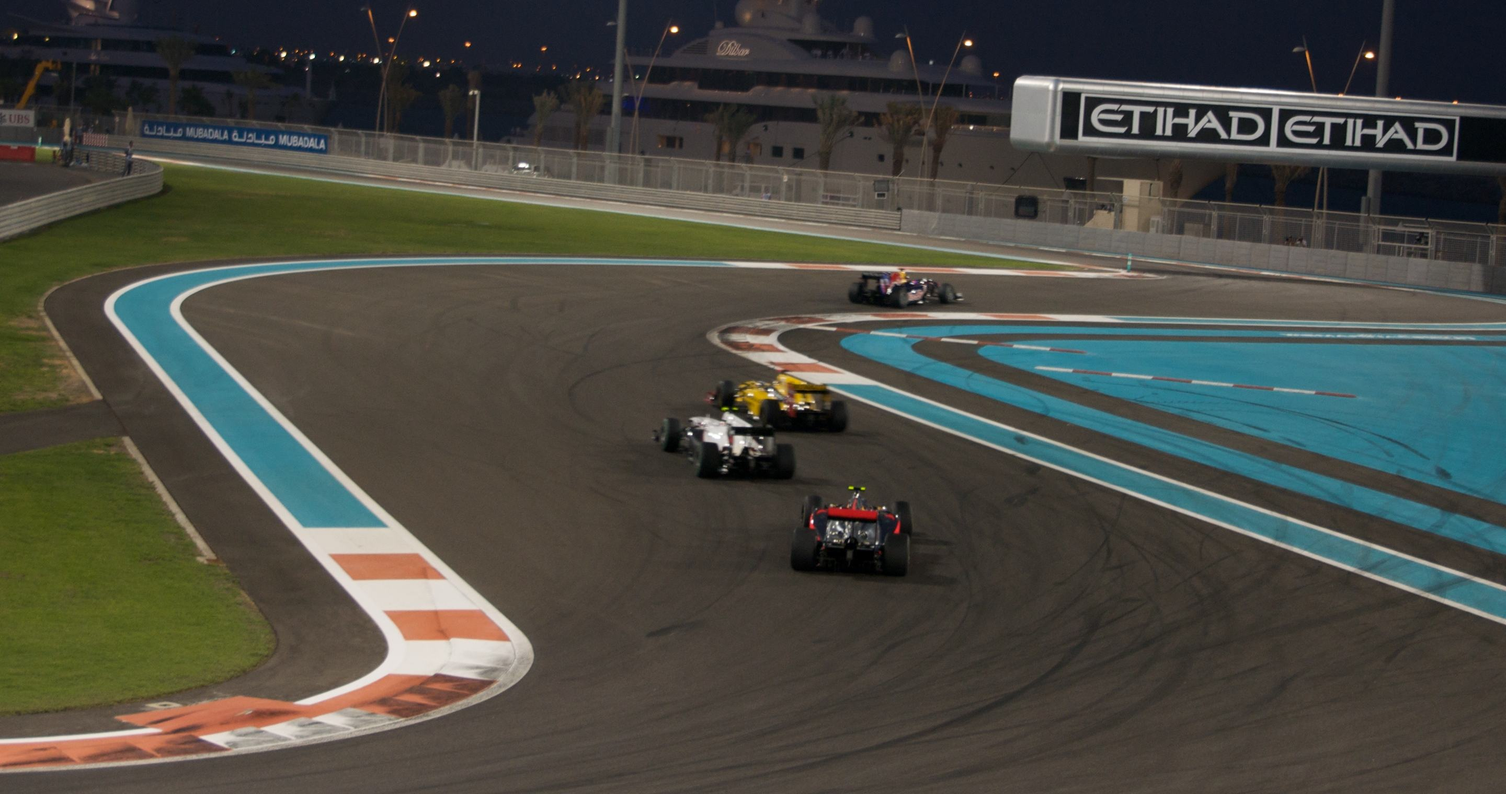
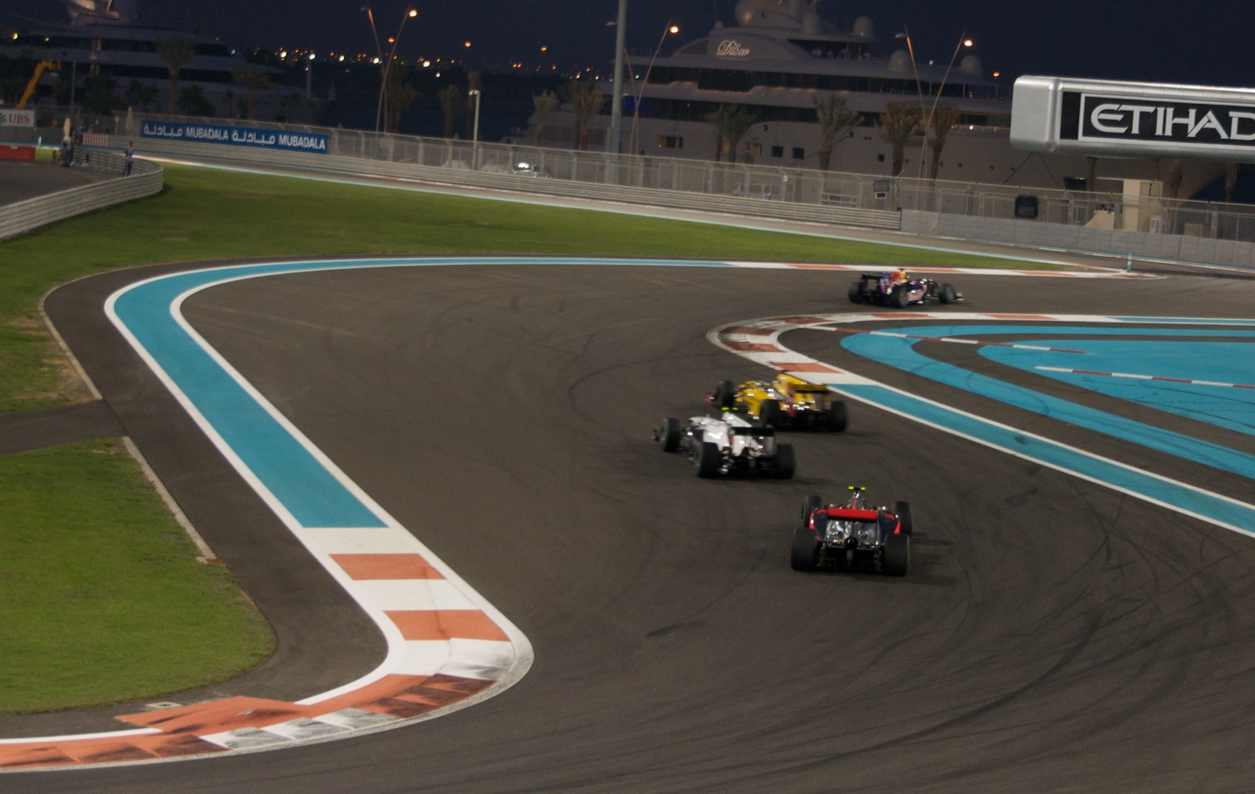
fix(tracks): the Yas Marina hero keeps the lead car clear of the title from 1000 px to 1920 px

diff --git a/docs/superpowers/specs/2026-11-18-tracks-yas-marina-design.md b/docs/superpowers/specs/2026-11-18-tracks-yas-marina-design.md
@@ -82,14 +82,14 @@ Each photo comes in two files, `public/img/tracks/yas_marina-<name>.jpg` and `ya
 
 | Name | Desktop | Phone | Source |
 |---|---|---|---|
-| `hero` | 2880×1520 | 1170×780 | 3599×2399, full size, via the browser |
+| `hero` | 2400×1520 | 1170×780 | 3599×2399, full size, via the browser |
 | `t5` | 1632×1120 | 1170×804 | 3840 px preview of a 4256 px original |
 | `hotel` | 960×660 | 1170×804 | 3840 px preview of a 5184 px original |
 | `2009` | 864×648 | 1170×876 | 3840 px preview of a 5616 px original |
 
-These match the Las Vegas sizes for the same slots. Nothing is enlarged. The four desktop files total about 770 KB.
+These match the Las Vegas sizes for the same slots, except the desktop hero. Nothing is enlarged. The four desktop files total about 720 KB.
 
-**My call:** the desktop hero is the bottom-left 2880×1520 of the original, with no resize. A full-width crop put the four cars behind the title block. This crop keeps them to the right of it. The floodlight tops are cut on desktop. The phone crop is the full frame and keeps them.
+**My call:** the desktop hero is the bottom-left 2400×1520 of the original, with no resize. The hero is drawn with `object-fit: cover`, centred, under a 740 px title block anchored bottom-left. A full-width crop put the four cars behind the title block. A 2880×1520 crop cleared them only from about 1400 px up: at 1280 px half the lead car sat behind the title (found in the final review). At 2400×1520 the image is never cropped sideways from 1200 px up, so the lead car stays right of the title from 1000 to 1920 px. The cost is 1.67× pixel density at 1440 px instead of 2×. The floodlight tops are cut on desktop. The phone crop is the full frame and keeps them.
 
 **My call:** the hotel photo drops its top 160 px before cropping, to remove a white speck in the sky.
 
